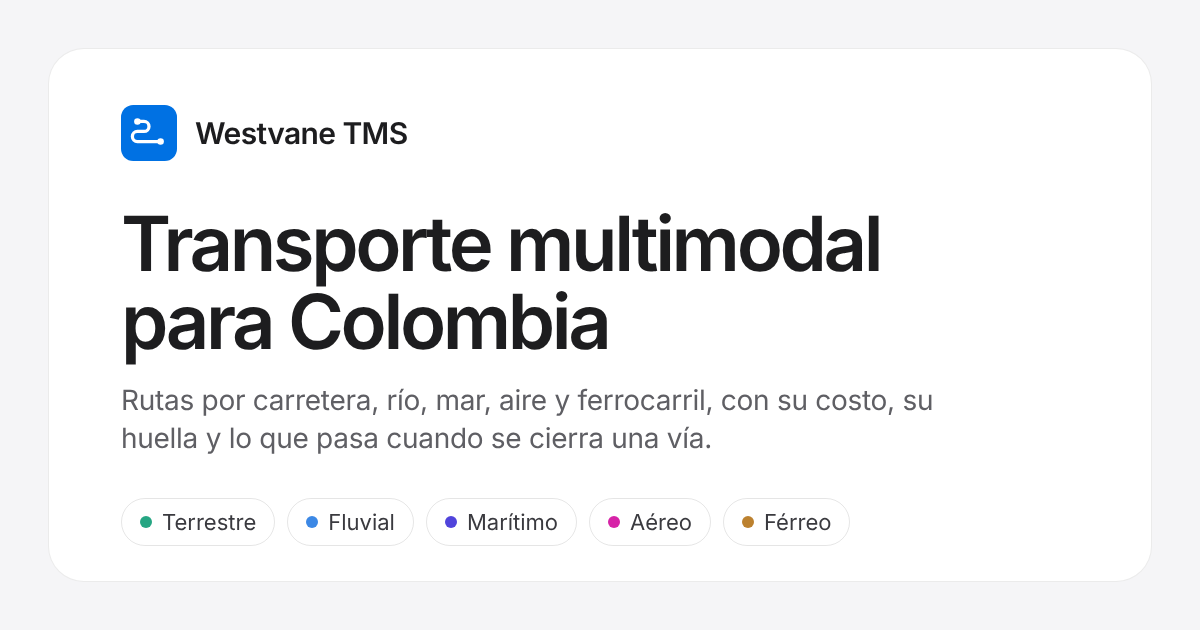
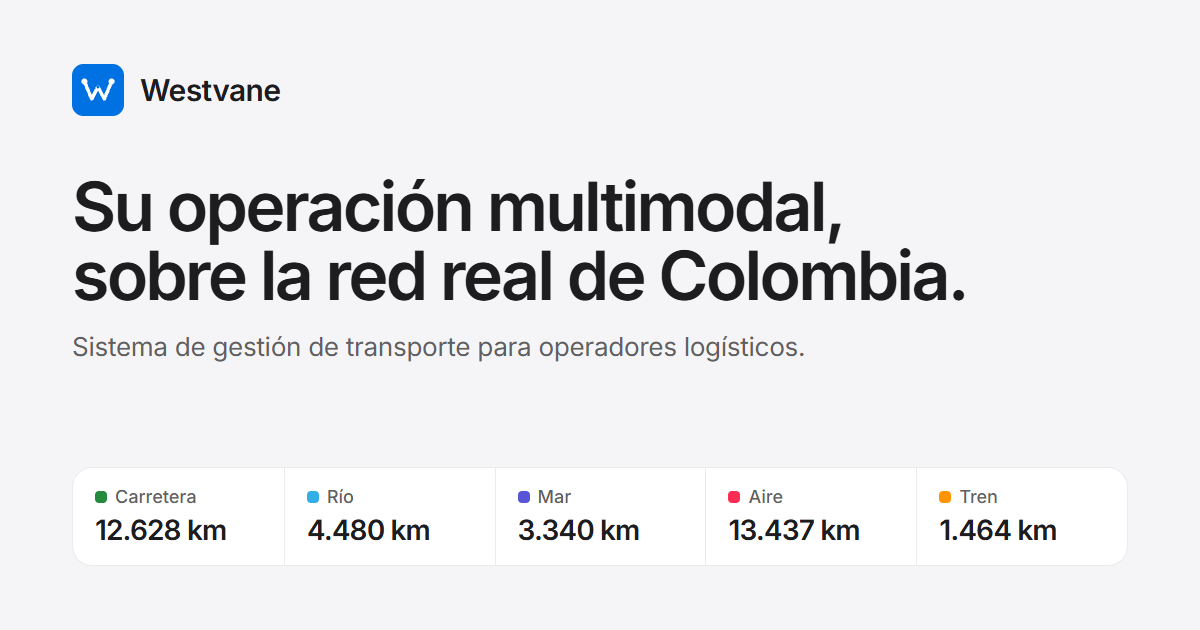
Imagen para compartir con la marca, robots y sitemap listos para indexar solo lo público, y 404 con la marca

diff --git a/frontend/src/app/not-found.tsx b/frontend/src/app/not-found.tsx
@@ -1,21 +1,27 @@
 import Link from "next/link";
 
+import { LogoMark } from "@/components/brand/logo";
 import { Button } from "@/components/ui/button";
 
 export default function NotFound() {
   return (
-    <div className="flex min-h-[70vh] flex-col items-center justify-center gap-4 px-6 text-center">
-      <div className="text-6xl font-bold tracking-tight text-muted-foreground">404</div>
-      <h1 className="text-2xl font-bold">No encontramos lo que buscas</h1>
-      <p className="max-w-md text-muted-foreground">
-        El envío o la página no existe, o ya no está disponible. Revisa el código o vuelve a la lista de envíos.
-      </p>
-      <div className="flex gap-2">
-        <Button asChild>
-          <Link href="/envios">Ir a envíos</Link>
+    <div className="flex min-h-[70vh] flex-col items-center justify-center gap-5 px-6 text-center">
+      <LogoMark className="size-12" />
+      <div>
+        <h1 className="text-[2rem] leading-tight font-semibold tracking-[-0.03em]">No encontramos esta página</h1>
+        <p className="mt-3 max-w-md text-[1.0625rem] leading-relaxed text-muted-foreground">
+          El envío o la dirección no existe, o ya no está disponible. Revise el código o vuelva a un lugar conocido.
+        </p>
+      </div>
+      <div className="flex flex-wrap justify-center gap-2">
+        <Button asChild size="lg">
+          <Link href="/panel">Ir al resumen</Link>
         </Button>
-        <Button asChild variant="secondary">
-          <Link href="/panel">Resumen</Link>
+        <Button asChild variant="secondary" size="lg">
+          <Link href="/envios">Ver envíos</Link>
+        </Button>
+        <Button asChild variant="ghost" size="lg">
+          <Link href="/">Presentación</Link>
         </Button>
       </div>
     </div>

diff --git a/frontend/src/app/page.tsx b/frontend/src/app/page.tsx
@@ -8,10 +8,15 @@ import { DemoSection, Faq, Intro, LandingFooter, LandingHeader, Modules, Trust }
 import { apiGet, apiPost } from "@/lib/api";
 import type { DashboardSummary, DepartmentsGeo, FleetLive, Mode, NetworkGeo, SimulateResponse } from "@/lib/types";
 
+const DESCRIPTION =
+  "Sistema de gestión de transporte para operadores logísticos en Colombia: rutas por carretera, río, mar, aire y tren sobre la red real, flota, bodegas, cierres de vía, entregas firmadas, costos y huella de carbono.";
+
 export const metadata: Metadata = {
   title: { absolute: "Westvane · Gestión de transporte multimodal para Colombia" },
-  description:
-    "Sistema de gestión de transporte para operadores logísticos en Colombia: rutas por carretera, río, mar, aire y tren sobre la red real, flota, bodegas, cierres de vía, entregas firmadas, costos y huella de carbono.",
+  description: DESCRIPTION,
+  // Lo que muestra WhatsApp, LinkedIn o el correo al compartir el enlace (la imagen sale de app/opengraph-image.png)
+  openGraph: { title: "Westvane · Su operación multimodal, sobre la red real de Colombia", description: DESCRIPTION, url: "/" },
+  twitter: { card: "summary_large_image", title: "Westvane · Gestión de transporte multimodal", description: DESCRIPTION },
 };
 
 /**

diff --git a/frontend/src/app/robots.ts b/frontend/src/app/robots.ts
@@ -1,7 +1,18 @@
 import type { MetadataRoute } from "next";
 
-/** Mientras la app sea privada no se indexa (ver también X-Robots-Tag en next.config.ts). */
+/**
+ * Sin ALLOW_INDEXING=1 no se indexa nada (ver también X-Robots-Tag en next.config.ts). Con él, solo lo público: la
+ * presentación y los documentos legales. La app (/panel y sus secciones) y el seguimiento de clientes quedan fuera: son datos
+ * de operación, no páginas para buscadores.
+ */
 export default function robots(): MetadataRoute.Robots {
-  if (process.env.ALLOW_INDEXING === "1") return { rules: { userAgent: "*", allow: "/", disallow: "/api/" } };
-  return { rules: { userAgent: "*", disallow: "/" } };
+  if (process.env.ALLOW_INDEXING !== "1") return { rules: { userAgent: "*", disallow: "/" } };
+  return {
+    rules: {
+      userAgent: "*",
+      allow: ["/$", "/metodologia", "/terminos", "/privacidad", "/cookies", "/creditos"],
+      disallow: ["/"],
+    },
+    sitemap: `${process.env.SITE_URL ?? "https://westvane.duckdns.org"}/sitemap.xml`,
+  };
 }

diff --git a/frontend/src/app/sitemap.ts b/frontend/src/app/sitemap.ts
@@ -1,0 +1,12 @@
+import type { MetadataRoute } from "next";
+
+/** Lo que un buscador puede listar cuando se abre la indexación (ALLOW_INDEXING=1): la presentación y lo legal. */
+export default function sitemap(): MetadataRoute.Sitemap {
+  const base = process.env.SITE_URL ?? "https://westvane.duckdns.org";
+  return [
+    { url: `${base}/`, changeFrequency: "weekly", priority: 1 },
+    { url: `${base}/metodologia`, changeFrequency: "monthly", priority: 0.5 },
+    { url: `${base}/terminos`, changeFrequency: "yearly", priority: 0.2 },
+    { url: `${base}/privacidad`, changeFrequency: "yearly", priority: 0.2 },
+  ];
+}

diff --git a/frontend/e2e/navegacion.spec.ts b/frontend/e2e/navegacion.spec.ts
@@ -62,7 +62,7 @@ test("el resumen muestra la red en plano y el mapa 3D solo al pedirlo", async ({
 test("un envío que no existe responde 404", async ({ page }) => {
   const r = await page.goto("/envios/LS-0000-0000");
   expect(r?.status()).toBe(404);
-  await expect(page.getByText("No encontramos lo que buscas")).toBeVisible();
+  await expect(page.getByText("No encontramos esta página")).toBeVisible();
   for (const path of ["/flota/999999", "/bodegas/999999"]) expect((await page.goto(path))?.status()).toBe(404);
 });
 

diff --git a/docs/BITACORA.md b/docs/BITACORA.md
@@ -1421,3 +1421,14 @@ bodega, seguimiento público y configuración, en escritorio y celular. Lo que s
   nodos llegan al final; solo opacidad y una vez, así que el mapa queda quieto en reposo. Módulos, seguridad, preguntas y el
   formulario entran al aparecer en pantalla. En la ruta en vivo, los tramos crecen de izquierda a derecha con cada resultado.
 - Todo se apaga con «reducir movimiento». Pruebas: 40 de navegador (incluida accesibilidad).
+
+## 63. Enlace que se ve bien al compartirlo, buscadores listos y página de «no encontrado»
+
+- **Imagen al compartir (WhatsApp, LinkedIn, correo):** `app/opengraph-image.png` nueva, con la marca W, el titular y los
+  kilómetros reales por modo; se genera con `frontend/scripts/og-image.mjs` (`BRAND_CHANNEL=msedge node scripts/og-image.mjs`).
+  La presentación declara su título y descripción para Open Graph y tarjeta grande para X/Twitter.
+- **Buscadores:** siguen sin indexar nada (decisión pendiente del dueño). Con `ALLOW_INDEXING=1`, `robots.ts` deja indexar solo
+  la presentación y lo legal (la app y el seguimiento quedan fuera) y hay `sitemap.xml`.
+- **404:** con la marca y tres salidas (resumen, envíos, presentación).
+- **Tema oscuro de la presentación:** revisado (mapa, rótulos de cierre, ruta en vivo); sin cambios necesarios.
+- Pruebas: 40 de navegador.
